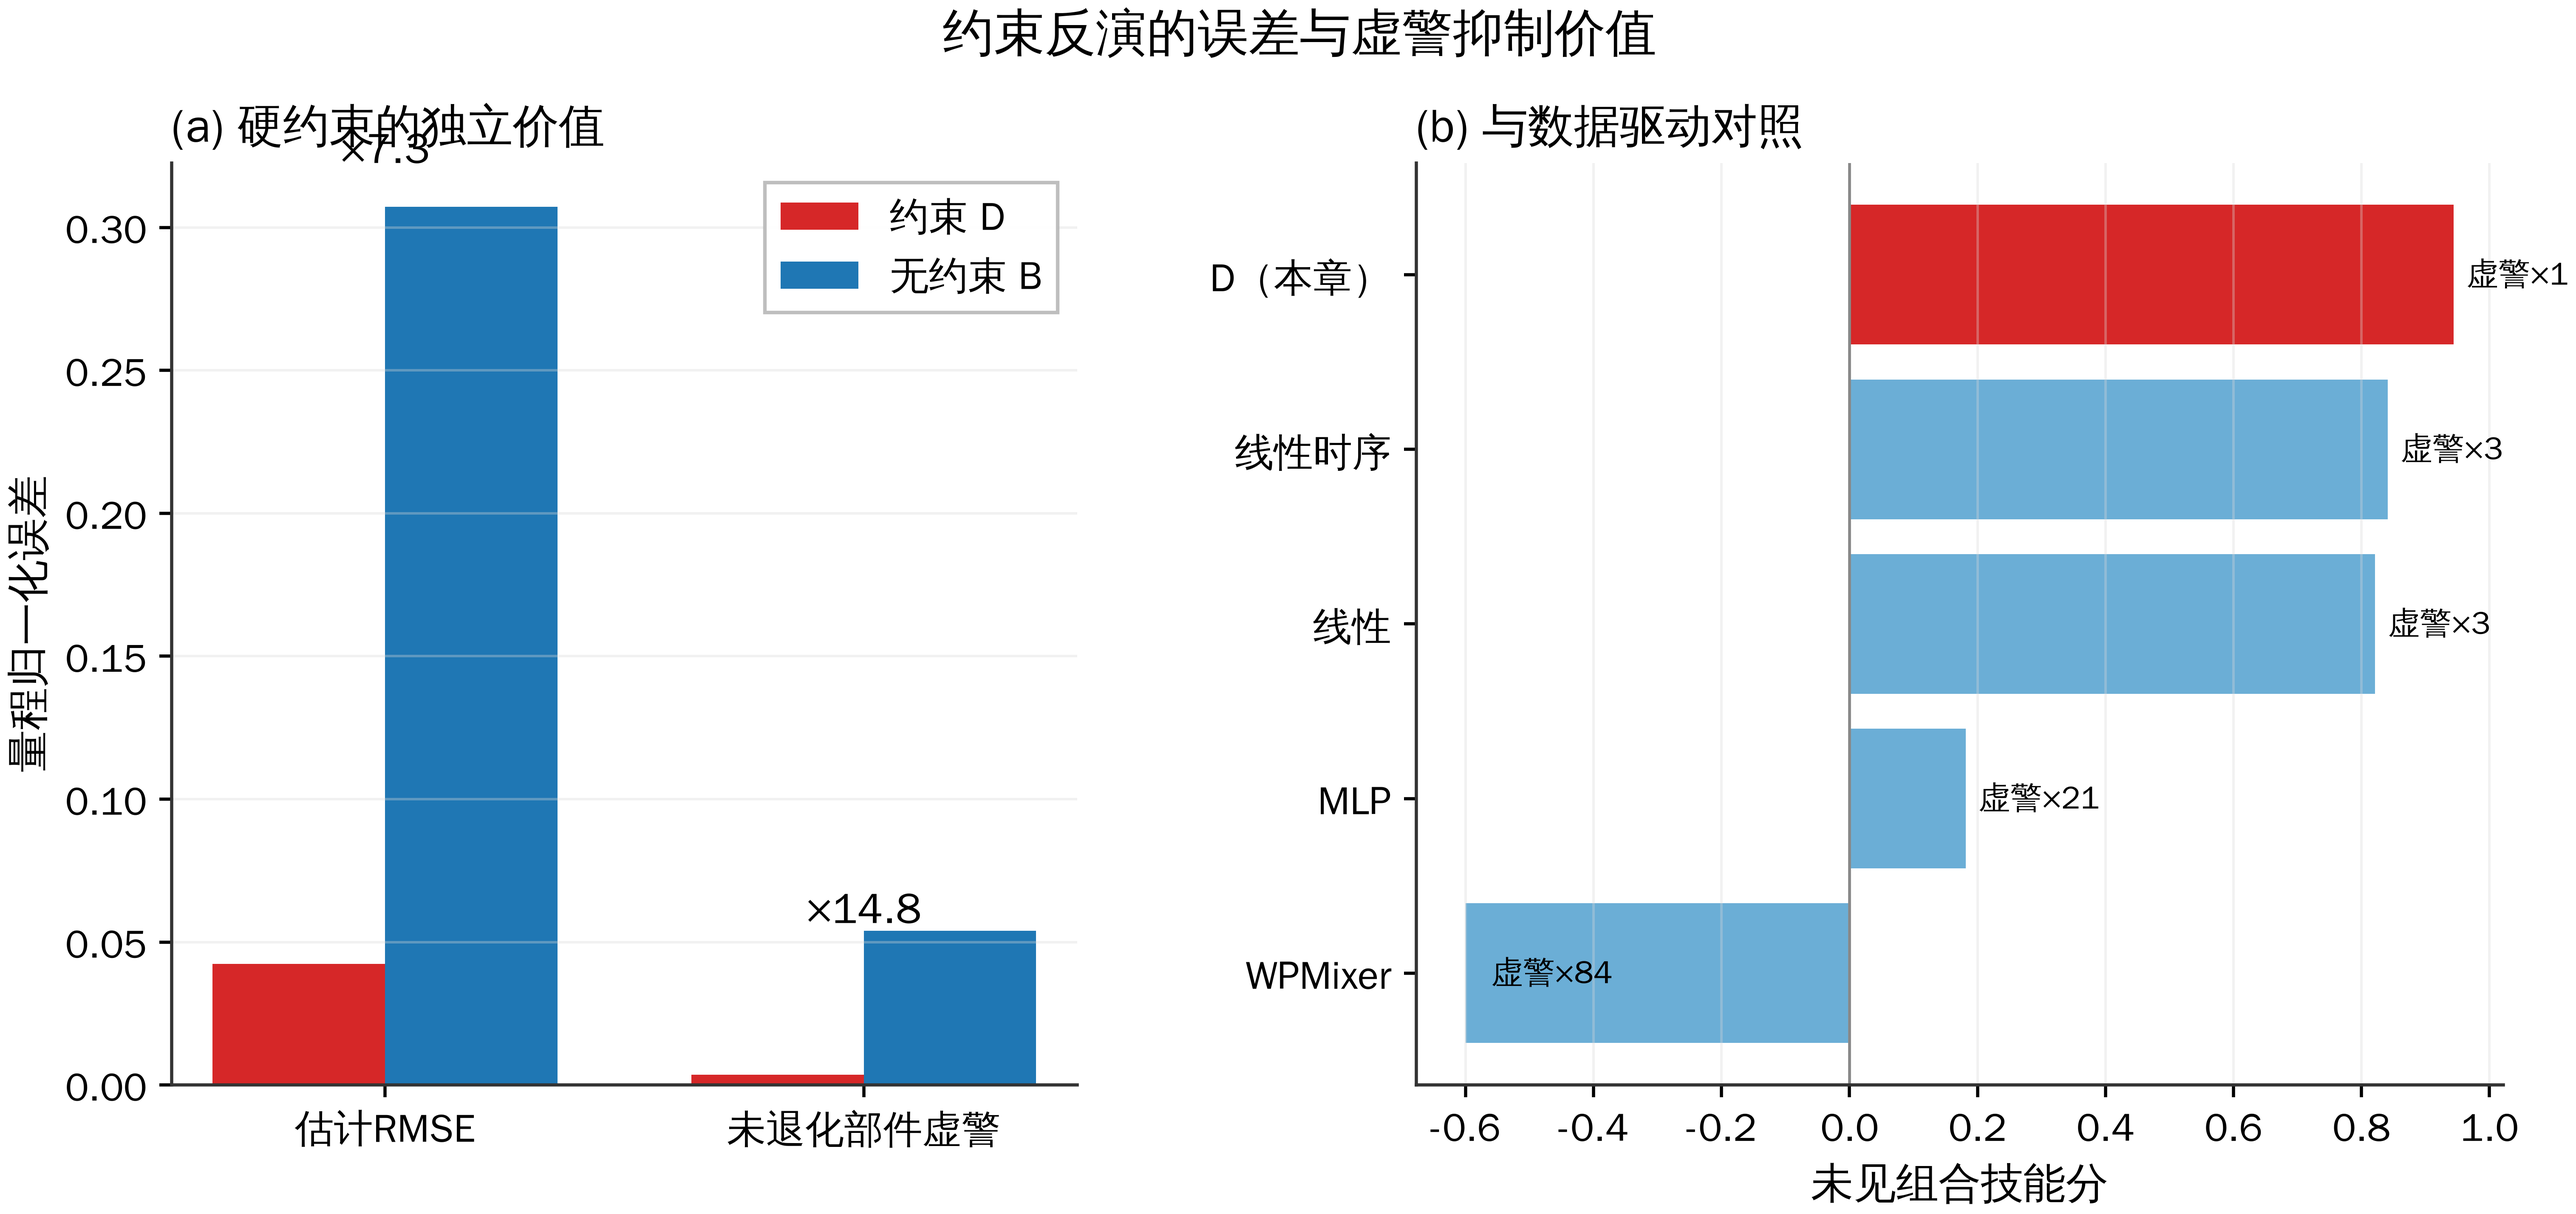
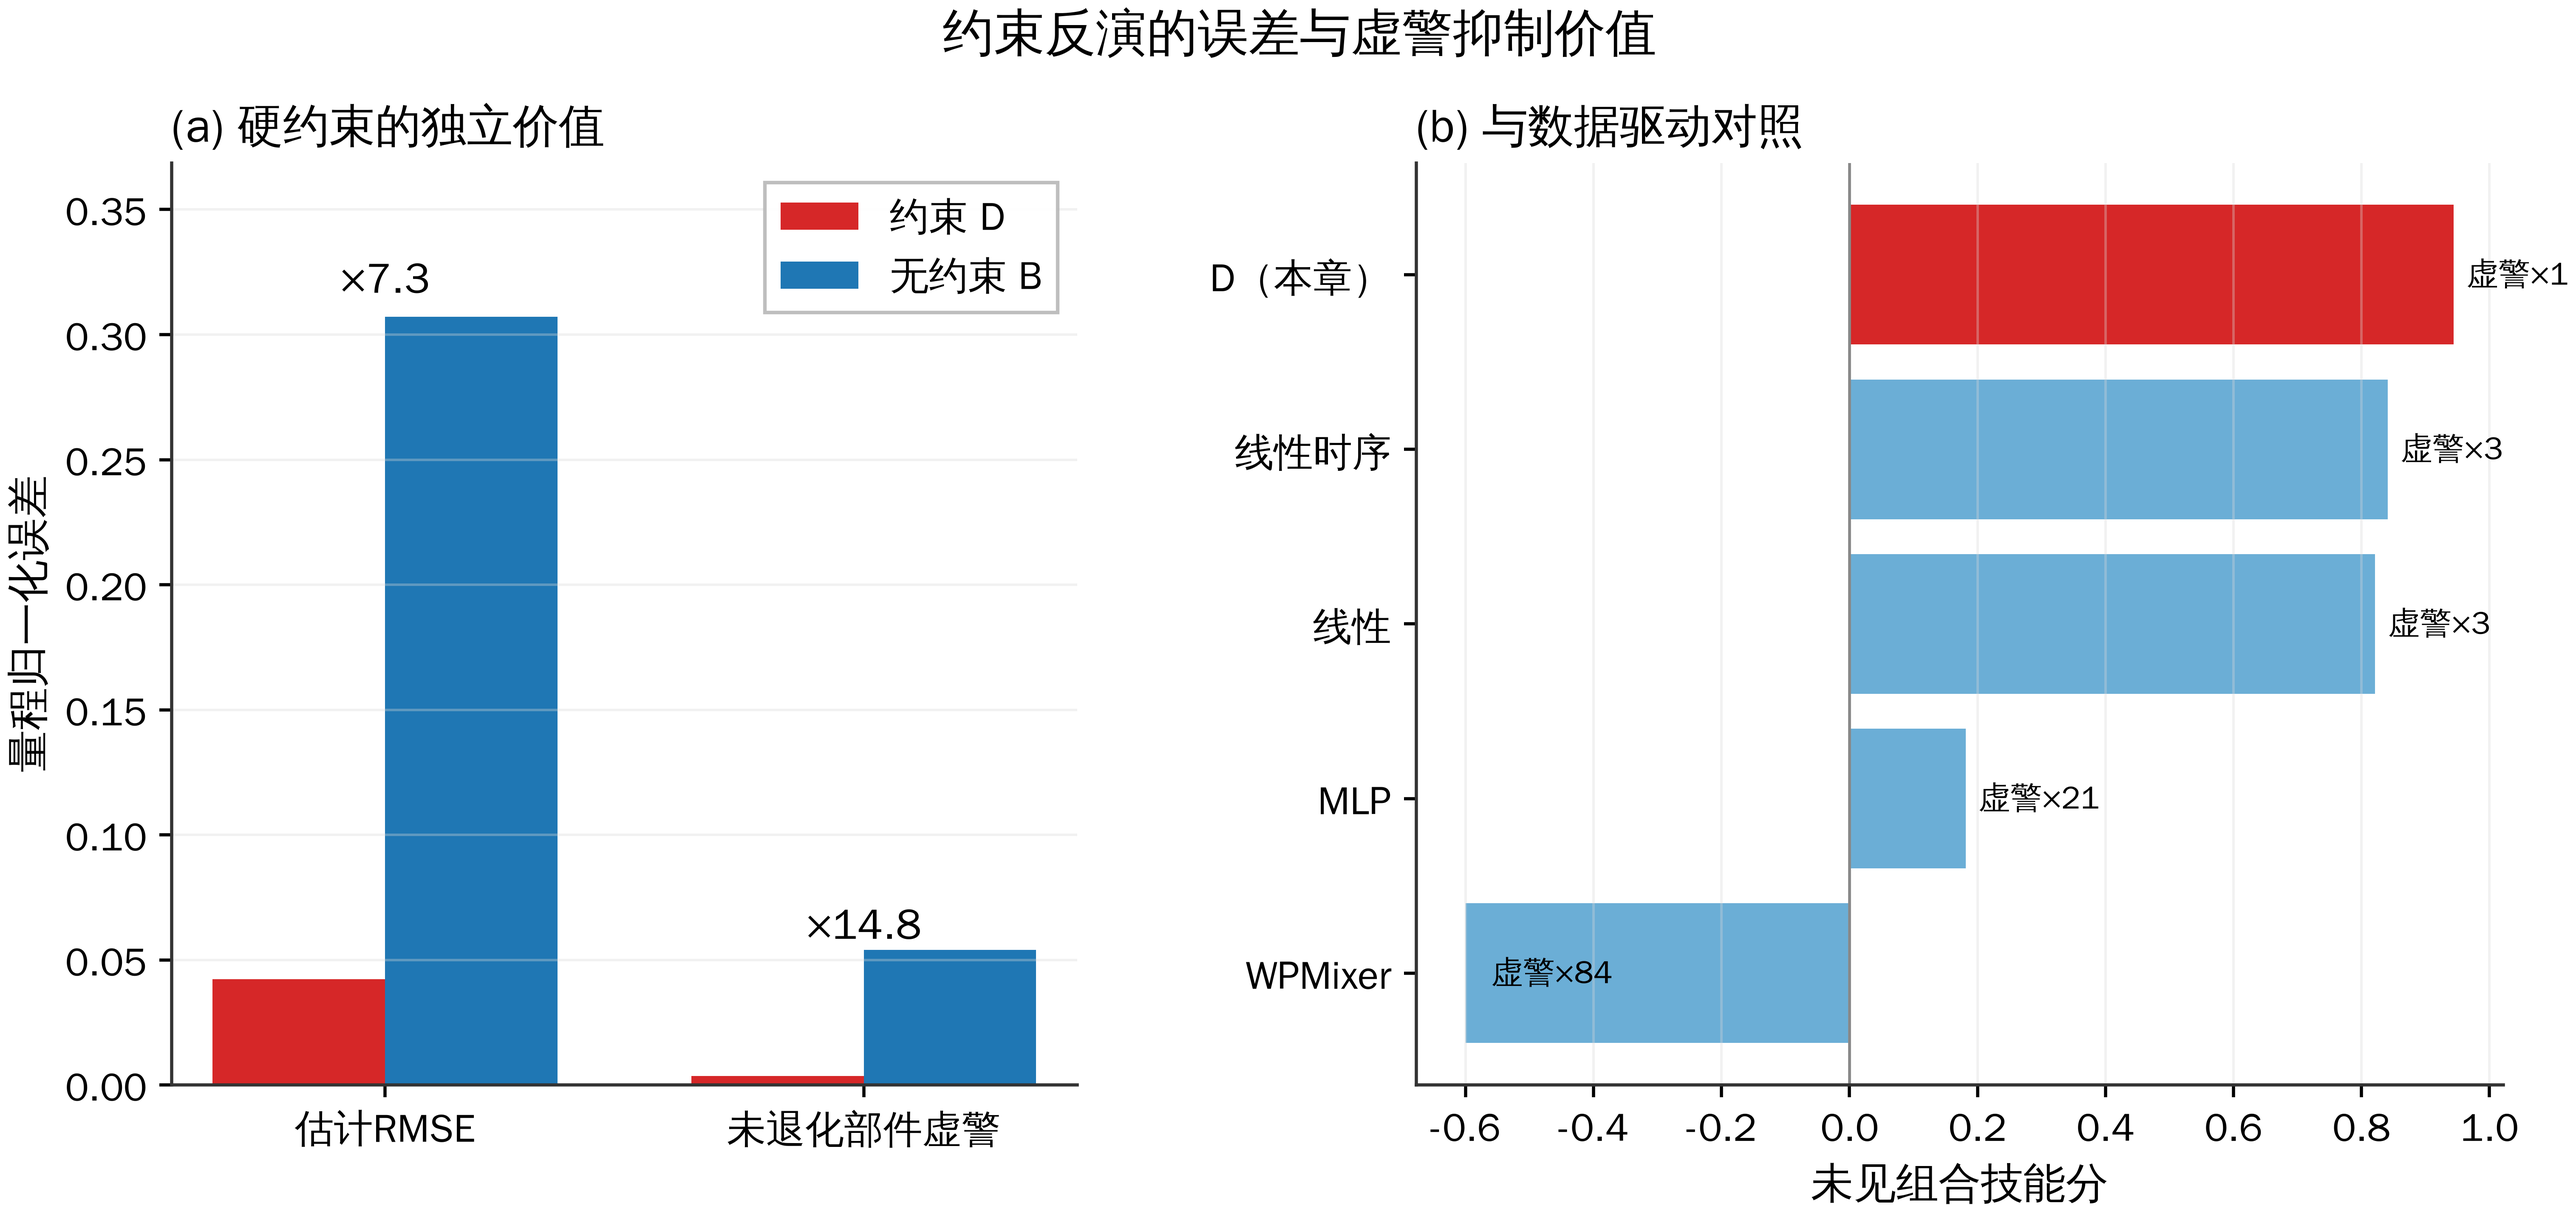
修复图3-9倍数标注与标题碰撞：预留顶部空间

diff --git a/figure_pipeline/fig_continuous.py b/figure_pipeline/fig_continuous.py
@@ -117,8 +117,11 @@ def fig_constraint_value():
     ax.bar(x-w/2, dvals, w, color=S.D_COLOR, label="约束 D")
     ax.bar(x+w/2, bvals, w, color=S.B_COLOR, label="无约束 B")
     ax.set_xticks(x); ax.set_xticklabels(["估计RMSE", "未退化部件虚警"]); ax.set_ylabel("量程归一化误差")
-    ax.set_title("(a) 硬约束的独立价值", loc="left"); ax.grid(axis="y", alpha=.35); ax.legend()
-    for i in range(2): ax.text(i, max(dvals[i], bvals[i])*1.05, f"×{bvals[i]/dvals[i]:.1f}", ha="center")
+    ax.set_title("(a) 硬约束的独立价值", loc="left"); ax.grid(axis="y", alpha=.35)
+    ax.set_ylim(0, max(max(dvals), max(bvals)) * 1.20)   # 预留顶部空间，避免倍数标注与标题碰撞
+    ax.legend(loc="upper right")
+    for i in range(2):
+        ax.text(i, max(dvals[i], bvals[i]) * 1.02, f"×{bvals[i]/dvals[i]:.1f}", ha="center", va="bottom")
 
     ax = fig.add_subplot(gs[1]); t8 = pd.read_csv(TABLE8); t8=t8[t8.arm!="Z_zero"].sort_values("ood_skill")
     name = {"D":"D（本章）", "E_Lin":"线性", "E_MixLinear":"线性时序", "E_MLP":"MLP", "E_WPMixer":"WPMixer"}
